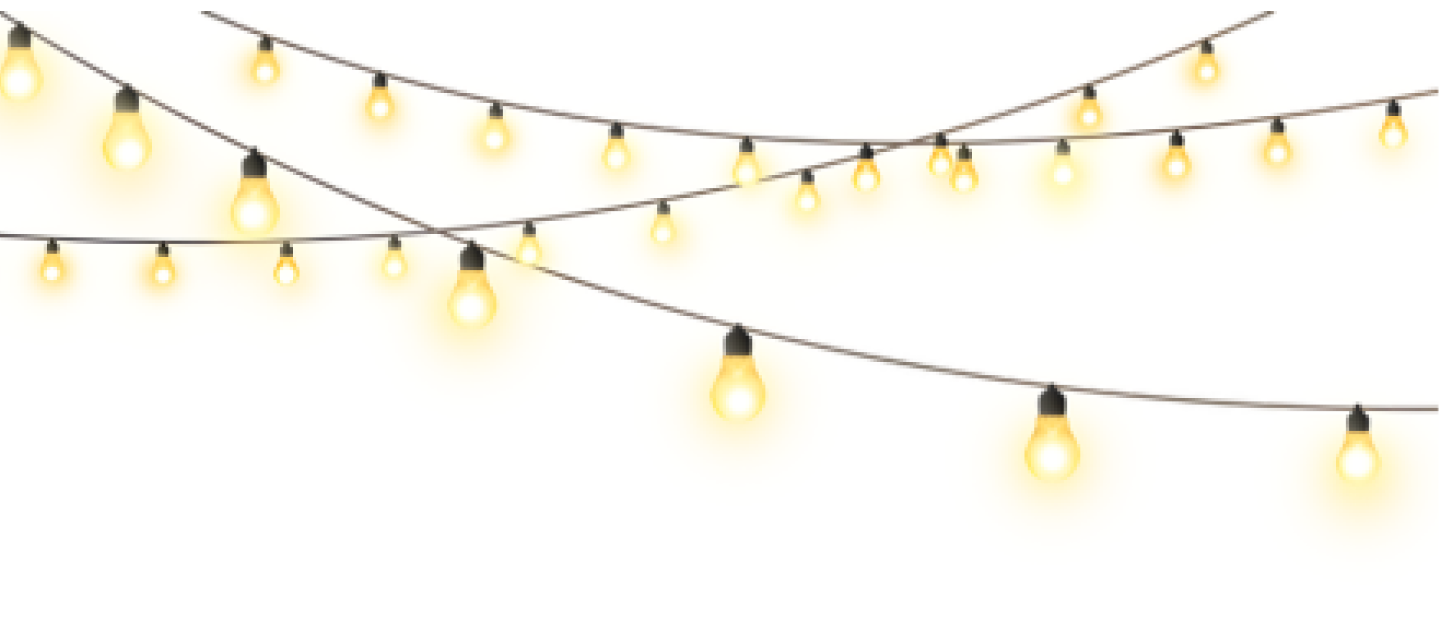
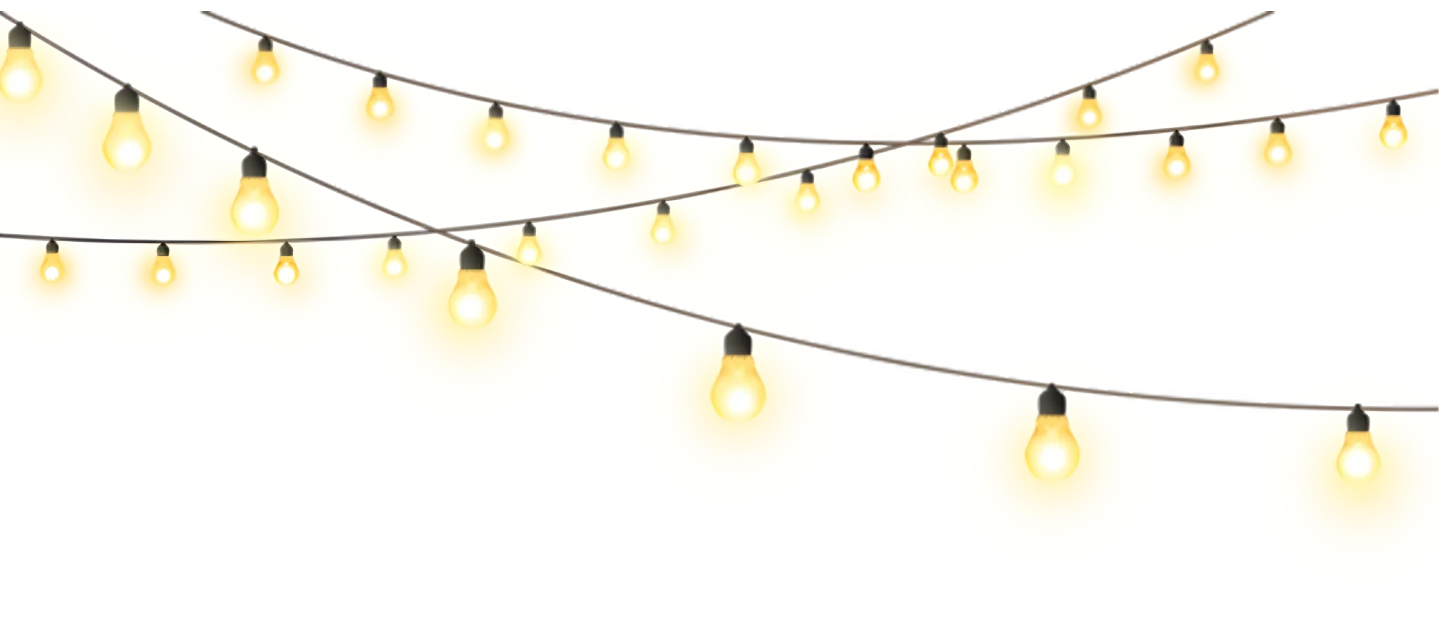
optimize imgs

diff --git a/components/Pages/Events/CircusCarnival/CircusCarnival.jsx b/components/Pages/Events/CircusCarnival/CircusCarnival.jsx
@@ -28,7 +28,7 @@ import clouds_mobile from "/public/images/circus/clouds_mobile.webp"
 import video_bg from "/public/images/circus/video_bg.webp"
 import circus_logo from "/public/images/circus/circ_logo.webp"
 import stars from "/public/images/circus/stars.svg"
-import lights from "/public/images/circus/lights.png"
+import lights from "/public/images/circus/lights.webp"
 import clown_face from "/public/images/circus/clown_face.webp"
 
 import location from "/public/images/circus/location.svg"
